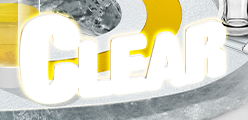
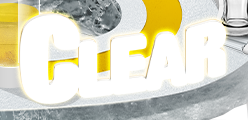
update fixbug ngaỳ 19/11/2021

Changed region(s): [[0.8468, 0.85, 1.0, 1.0]]

diff --git a/3c-animation/css/style.css b/3c-animation/css/style.css
@@ -429,7 +429,6 @@ input[type="submit"] {
         margin-top: -0%; } }
 
 .blk-gr3c-animation {
-  max-height: 100vh;
   max-width: 100%; }
   @media screen and (min-width: 1320px) {
     .blk-gr3c-animation {
@@ -438,7 +437,8 @@ input[type="submit"] {
     .blk-gr3c-animation {
       overflow-x: scroll;
       overflow-y: hidden;
-      margin-top: -3%; } }
+      margin-top: -3%;
+      max-height: 100vh; } }
   .blk-gr3c-animation .inner-gr3c-animation {
     position: relative;
     padding: 9% 11.0625% 6.4% 11.07%; }
@@ -936,13 +936,13 @@ input[type="submit"] {
   position: absolute;
   width: 18.8%;
   left: 67.5%;
-  top: 60.9%;
+  top: 61.3%;
   overflow: hidden; }
   @media screen and (max-width: 768px) {
     .animation-text-clear {
       width: 21.7%;
       left: 70.8%;
-      top: 61%; } }
+      top: 61.2%; } }
   .animation-text-clear .inner-text-clear {
     overflow: hidden;
     position: relative; }
@@ -1644,7 +1644,8 @@ input[type="submit"] {
   width: 16.17%;
   position: absolute;
   right: 3%;
-  bottom: 6%; }
+  bottom: 6%;
+  z-index: 5; }
   .delivery-3c img {
     width: 100%; }
   .delivery-3c .md-img-desktop {

diff --git a/3c-animation/css/anmodule.css b/3c-animation/css/anmodule.css
@@ -53,7 +53,6 @@
         margin-top: -0%; } }
 
 .blk-gr3c-animation {
-  max-height: 100vh;
   max-width: 100%; }
   @media screen and (min-width: 1320px) {
     .blk-gr3c-animation {
@@ -62,7 +61,8 @@
     .blk-gr3c-animation {
       overflow-x: scroll;
       overflow-y: hidden;
-      margin-top: -3%; } }
+      margin-top: -3%;
+      max-height: 100vh; } }
   .blk-gr3c-animation .inner-gr3c-animation {
     position: relative;
     padding: 9% 11.0625% 6.4% 11.07%; }
@@ -560,13 +560,13 @@
   position: absolute;
   width: 18.8%;
   left: 67.5%;
-  top: 60.9%;
+  top: 61.3%;
   overflow: hidden; }
   @media screen and (max-width: 768px) {
     .animation-text-clear {
       width: 21.7%;
       left: 70.8%;
-      top: 61%; } }
+      top: 61.2%; } }
   .animation-text-clear .inner-text-clear {
     overflow: hidden;
     position: relative; }
@@ -1268,7 +1268,8 @@
   width: 16.17%;
   position: absolute;
   right: 3%;
-  bottom: 6%; }
+  bottom: 6%;
+  z-index: 5; }
   .delivery-3c img {
     width: 100%; }
   .delivery-3c .md-img-desktop {
